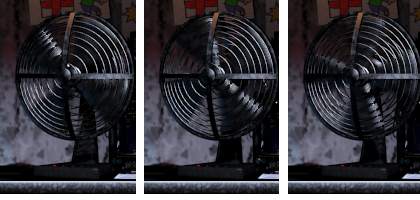
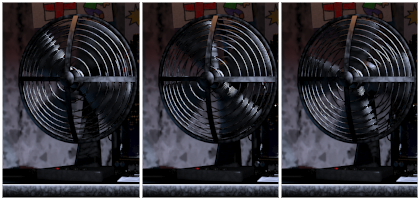
[업데이트] 선풍기 적용 완료

diff --git a/DirectX_PKT/EngineCore/SpriteRenderer.cpp b/DirectX_PKT/EngineCore/SpriteRenderer.cpp
@@ -82,7 +82,7 @@ void USpriteRenderer::MaterialSettingEnd()
 	Super::MaterialSettingEnd();
 	Resources->SettingTexture("Image", "EngineBaseTexture.png", "POINT");
 	CurTexture = nullptr;
-	Resources->SettingConstantBuffer("ResultColorValue", PlusColor);
+	Resources->SettingConstantBuffer("ResultColorValue", ColorData);
 	Resources->SettingConstantBuffer("FCuttingData", CuttingDataValue);
 }
 
@@ -125,6 +125,34 @@ void USpriteRenderer::SetSpriteInfo(const FSpriteInfo& _Info)
 		Transform.SetScale(TexScale * CuttingDataValue.CuttingSize * ScaleRatio);
 	}
 
+	switch (Pivot)
+	{
+	case EPivot::BOT:
+	{
+		float4 Scale = Transform.WorldScale;
+		Scale.X = 0.0f;
+		Scale.Y = abs(Scale.Y) * 0.5f;
+		Scale.Z = 0.0f;
+		CuttingDataValue.PivotMat.Position(Scale);
+		break;
+	}
+	case EPivot::RIGHT:
+	{
+		float4 Scale = Transform.WorldScale;
+		Scale.X = -abs(Scale.X) * 0.5f;
+		Scale.Y = 0.0f;
+		Scale.Z = 0.0f;
+		CuttingDataValue.PivotMat.Position(Scale);
+		break;
+	}
+	case EPivot::MAX:
+	default:
+	{
+		CuttingDataValue.PivotMat.Identity();
+	}
+		break;
+	}
+
 	if (Dir != EEngineDir::MAX)
 	{
 		float4 Scale = Transform.GetScale();
@@ -156,6 +184,10 @@ void USpriteRenderer::SetSpriteInfo(const FSpriteInfo& _Info)
 	}
 
 	CurInfo = _Info;
+
+	// CuttingDataValue.PivotMat.Position({ 0.0f,100.0f, 0.0f });
+	// Transform.World * CuttingDataValue.PivotMat;
+
 
 	Resources->SettingTexture("Image", _Info.Texture, "POINT");
 	SetSamplering(SamplingValue);
@@ -200,11 +232,6 @@ void USpriteRenderer::SetSamplering(ETextureSampling _Value)
 	default:
 		break;
 	}
-}
-
-void USpriteRenderer::SetPlusColor(float4 _Color)
-{
-	PlusColor = _Color;
 }
 
 void USpriteRenderer::CreateAnimation(

diff --git a/DirectX_PKT/EngineCore/SpriteRenderer.h b/DirectX_PKT/EngineCore/SpriteRenderer.h
@@ -9,7 +9,16 @@ struct FCuttingData
 	float4 CuttingPosition;
 	//      0.5 0.5
 	float4 CuttingSize;
+	float4x4 PivotMat;
 };
+
+struct ResultColorValue
+{
+	float4 PlusColor = float4::Zero;
+	float4 MulColor = float4::One;
+	float4 AlphaColor = float4::One;
+};
+
 
 class UEngineSprite;
 class USpriteAnimation : public UNameObject
@@ -61,7 +70,6 @@ public:
 	USpriteRenderer& operator=(USpriteRenderer&& _Other) noexcept = delete;
 
 	void SetSprite(std::string_view _Name, UINT _Index = 0);
-	void SetPlusColor(float4 _Color);
 	void SetSamplering(ETextureSampling _Value);
 
 	void CreateAnimation(std::string_view _AnimationName, std::string_view _SpriteName, float _Inter = 0.1f, bool _Loop = true, int _Start = -1, int _End = -1);
@@ -83,6 +91,27 @@ public:
 	}
 
 	bool IsCurAnimationEnd();
+
+	void SetPlusColor(float4 _Color)
+	{
+		ColorData.PlusColor = _Color;
+	}
+
+	void SetMulColor(float4 _Color)
+	{
+		ColorData.MulColor = _Color;
+	}
+
+	void SetAlpha(float _Alpha)
+	{
+		ColorData.AlphaColor.A = _Alpha;
+	}
+
+	void SetPivot(EPivot _Pivot)
+	{
+		Pivot = _Pivot;
+	}
+
 	
 protected:
 	void Tick(float _DeltaTime) override;
@@ -92,11 +121,10 @@ private:
 	bool AutoSize = false;
 	float ScaleRatio = 1.0f;
 	FSpriteInfo CurInfo;
-
+	EPivot Pivot = EPivot::MAX;
 	EEngineDir Dir = EEngineDir::MAX;
-
+	ResultColorValue ColorData;
 	FCuttingData CuttingDataValue;
-	float4 PlusColor = float4::Zero;
 	std::shared_ptr<UEngineTexture> CurTexture = nullptr;
 	std::map<std::string, std::shared_ptr<USpriteAnimation>> Animations;
 	std::shared_ptr<USpriteAnimation> CurAnimation = nullptr;

diff --git a/DirectX_PKT/EngineCore/StateManager.h b/DirectX_PKT/EngineCore/StateManager.h
@@ -1,7 +1,8 @@
 #pragma once
 #include <map>
+#include <EngineBase/NameObject.h>
 
-class UState
+class UState : public UNameObject
 {
 public:
 	std::function<void()> Start;
@@ -24,7 +25,7 @@ public:
 	UStateManager& operator=(UStateManager&& _Other) noexcept = delete;
 
 	void CreateState(std::string_view _Name);
-	void SetFunction(std::string_view _Name, 
+	void SetFunction(std::string_view _Name,
 		std::function<void()> _Start = nullptr,
 		std::function<void(float)> _Update = nullptr,
 		std::function<void()> _End = nullptr
@@ -37,6 +38,11 @@ public:
 	std::shared_ptr<UState> FindState(std::string_view _Name);
 
 	void ChangeState(std::string_view _Name);
+
+	inline std::string GetCurStateName() const
+	{
+		return CurState->GetName();
+	}
 
 	void Update(float _Time);
 

diff --git a/DirectX_PKT/EngineCore/StateManager.cpp b/DirectX_PKT/EngineCore/StateManager.cpp
@@ -1,11 +1,11 @@
 #include "PreCompile.h"
 #include "StateManager.h"
 
-UStateManager::UStateManager() 
+UStateManager::UStateManager()
 {
 }
 
-UStateManager::~UStateManager() 
+UStateManager::~UStateManager()
 {
 }
 
@@ -43,6 +43,7 @@ void UStateManager::CreateState(std::string_view _Name)
 {
 	std::string UpperName = UEngineString::ToUpper(_Name);
 	States[UpperName] = std::make_shared<UState>();
+	States[UpperName]->SetName(_Name);
 }
 
 void UStateManager::SetFunction(std::string_view _Name,

diff --git a/DirectX_PKT/MyCore/Stage.cpp b/DirectX_PKT/MyCore/Stage.cpp
@@ -18,10 +18,10 @@ void Stage::BeginPlay()
 	Super::BeginPlay();
 	std::shared_ptr<UCamera> Camera = GetWorld()->GetMainCamera();
 	Camera->SetActorLocation(FVector(0.0f, 0.0f, -50.0f));
+	GetWorld()->SpawnActor<Fan>("Fan");
 	GetWorld()->SpawnActor<StageBackGroundClass>("StageBackGroundClass");
-	GetWorld()->SpawnActor<Fan>("Fan", 10);
 	
-
+	
 }
 
 void Stage::Tick(float _DetaTIme)

diff --git a/DirectX_PKT/EngineCore/EngineEnums.h b/DirectX_PKT/EngineCore/EngineEnums.h
@@ -24,6 +24,7 @@ enum class ETextureSampling
 
 enum class EPivot
 {
+	RIGHT,
 	BOT,
 	MAX,
 };
